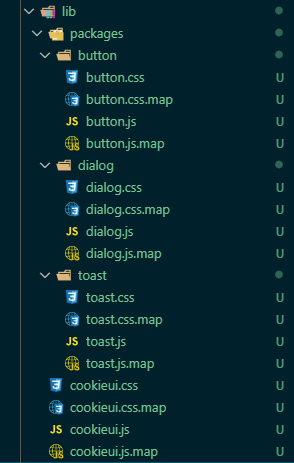
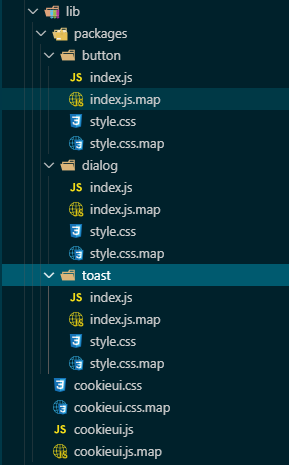
adjust library structure

diff --git a/其它文章/前端的加密解密/前端加密解密.md b/其它文章/前端的加密解密/前端加密解密.md
@@ -1,0 +1,109 @@
+## 普通的浏览器base64转解码
+我们借助浏览器的atob和btoa来实现base64的解码和转码。
+
+- btoa方法实现转码
+```
+let str = 'hello, world!';
+window.btoa(str); // 输出 aGVsbG8sIHdvcmxkIQ==
+```
+- atob方法实现解码
+```
+window.atob('aGVsbG8sIHdvcmxkIQ=='); // 输出 hello, world!
+```
+
+但是这个方法有个问题，不支持中文，哪怕你的字符串里面用了中文标点都不行。可以借助`encodeURIComponent`和`decodeURIComponent`来转换一下中文。
+
+关于`encodeURI`和`encodeURIComponent`的区别
+- encodeURI()不会对本身属于URI的特殊字符进行编码，例如冒号、正斜杠、问号和井字号；而encodeURIComponent()则会对它发现的任何非标准字符进行编码。
+
+- encodeURIComponent()
+```
+let str = 'HELLO, 世界！';
+window.btoa(window.encodeURIComponent(str)); 
+// 输出 "SEVMTE8lMkMlMjAlRTQlQjglOTYlRTclOTUlOEMlRUYlQkMlODE="
+```
+
+- decodeURIComponent()
+```
+window.decodeURIComponent(window.atob('SEVMTE8lMkMlMjAlRTQlQjglOTYlRTclOTUlOEMlRUYlQkMlODE='));
+// 输出 "HELLO, 世界！"
+```
+
+## 使用crypto-js进行加解密
+
+### AES加密（对称加密）
+使用AES加密则需要设置key和偏移量。
+
+- 安装和引入crypto-js
+```
+npm install crypto-js
+
+import CryptoJS from 'crypto-js';
+```
+
+- 定义key和iv
+```
+// 定义一个key，为了避免补位，使用16进制数形成16位字符串，以下的key仅做测试用
+// 使用parse将utf8编码转换成WordArray对象
+let key = CryptoJS.enc.Utf8.parse('0123456789ABCDEF');
+// 定义偏移量，跟key的定义方式相同
+let iv = CryptoJS.enc.Utf8.parse('FEDCAB9012345678');
+```
+
+- 加密
+```
+// aes加密
+function encrypt_aes(data) {
+  // 判断一下传过来的是字符串还是对象
+  let finalData;
+  if(typeof data === 'string') {
+    finalData = CryptoJS.enc.Utf8.parse(data);
+  }else if(typeof data === 'object') {
+    finalData = CryptoJS.enc.Utf8.parse(
+      // 传过来是对象的话要转换成JSON字符串在转
+      JSON.stringify(data)
+    );
+  }
+
+  // 进行AES加密
+  let encrypted = CryptoJS.AES.encrypt(finalData, key, {
+    iv: iv,
+    mode: CryptoJS.mode.CBC,
+    padding: CryptoJS.pad.Pkcs7
+  });
+  
+  return encrypted.ciphertext.toString();
+}
+```
+
+- 解密
+```
+// aes解密
+function decrypt_aes(data) {
+  let strData = CryptoJS.enc.Base64.stringify(
+    CryptoJS.enc.Hex.parse(data)
+  );
+
+  // 解密
+  let decrypted = CryptoJS.AES.decrypt(strData, key, {
+    iv: iv,
+    mode: CryptoJS.mode.CBC,
+    padding: CryptoJS.pad.Pkcs7
+  })
+
+  return decrypted.toString(CryptoJS.enc.Utf8).toString();
+}
+```
+
+## 参考资料
+[crypto-js官方API文档](https://cryptojs.gitbook.io/docs/)
+
+[前端加密JS库--CryptoJS 使用指南](http://www.sosout.com/2018/09/05/cryptojs-tutorial.html)
+
+[前端 crypto-js aes 加解密](https://www.jianshu.com/p/a47477e8126a)
+
+[crypto-js与php aes加密传输](https://www.jianshu.com/p/5619d68bc2d1)
+
+[前端加密解密之Crypto.js](https://juejin.im/post/5c188d7651882544af6b86ea)
+
+[数据传输加密——非对称加密算法RSA+对称算法AES(适用于java,android和Web)](https://www.jianshu.com/p/4cf590329349)
